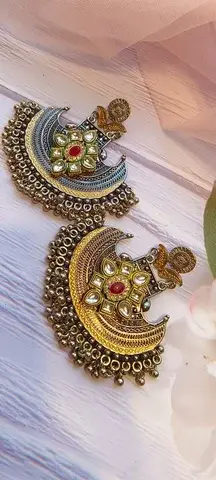
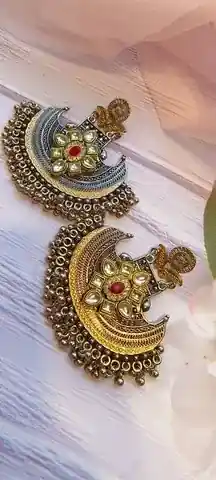
Fix unused JS, unused CSS, forced reflows, and image delivery based on Lighthouse v6 audit
- Remove duplicate gtag.js load: GTM already injects GA4 (gtag/js?cx=c&gtm=…) internally, so the explicit gtag.js script was a 164 KiB duplicate (70 KiB wasted bytes). Removed it; GTM is now the sole analytics loader.
- Move iphone-sort-fix.css from global bundle to ProductSort.jsx: since ProductSort is only used in the lazy-loaded Products page, this removes ~11 KiB of sort-modal CSS from the main bundle, reducing unused CSS on the home page.
- Remove forced reflows: deleted `void productsGrid.offsetHeight` (Products.jsx) and `void document.body.offsetHeight` (ProductSort.jsx) which caused synchronous layout thrash; also collapsed the unnecessary double-rAF wrapper in ProductSort.
- Recompress med-59-1.webp: 19.0 KiB → 10.7 KiB (−8.3 KiB), satisfying Lighthouse's 9 KiB savings target for that image.

diff --git a/src/components/ProductSort.jsx b/src/components/ProductSort.jsx
@@ -12,6 +12,7 @@ import { useState, useEffect, useRef } from 'react'
 import { useSearchParams } from 'react-router-dom'
 import { SORT_TYPES, SORT_LABELS, DEFAULT_SORT, getSortOptions } from '../utils/sorting'
 import './ProductSort.css'
+import '../styles/iphone-sort-fix.css'
 
 const ProductSort = ({ onSortChange, className = '' }) => {
   const [searchParams, setSearchParams] = useSearchParams()
@@ -122,15 +123,10 @@ const ProductSort = ({ onSortChange, className = '' }) => {
           productsContent.style.position = 'relative'
         }
         
-        // Force scrolling to work by ensuring body is scrollable
-        requestAnimationFrame(() => {
-          // Verify scrolling is restored
-          document.body.style.overflow = 'auto'
-          document.body.style.overflowX = 'hidden'
-          document.body.style.overflowY = 'auto'
-          // Force reflow
-          void document.body.offsetHeight
-        })
+        // Restore scrolling
+        document.body.style.overflow = 'auto'
+        document.body.style.overflowX = 'hidden'
+        document.body.style.overflowY = 'auto'
       })
     } else {
       // For non-iPhone devices

diff --git a/index.html b/index.html
@@ -149,17 +149,10 @@
   <!-- Deferred analytics: load after page is interactive to avoid blocking LCP/FID -->
   <script>
     function loadAnalytics() {
-      // Google tag (gtag.js)
-      var gtagScript = document.createElement('script');
-      gtagScript.async = true;
-      gtagScript.src = 'https://www.googletagmanager.com/gtag/js?id=G-1KL5DY2692';
-      document.head.appendChild(gtagScript);
-
+      // GTM is the single loader for all analytics — it also loads GA4 internally.
+      // Loading a separate gtag.js would be a duplicate (GTM injects gtag/js?cx=c&gtm=… itself).
       window.dataLayer = window.dataLayer || [];
-      function gtag() { dataLayer.push(arguments); }
-      window.gtag = gtag;
-      gtag('js', new Date());
-      gtag('config', 'G-1KL5DY2692');
+      window.gtag = function() { dataLayer.push(arguments); };
 
       // Google Tag Manager
       (function (w, d, s, l, i) {

diff --git a/src/index.css b/src/index.css
@@ -45,9 +45,6 @@
 /* iOS Safari Comprehensive Fix - Production-ready fixes for all iPhone-specific issues */
 @import './styles/ios-safari-comprehensive-fix.css';
 
-/* iPhone Sort Modal & Product Rendering Fix - Fixes sort modal causing UI crashes on iPhone */
-@import './styles/iphone-sort-fix.css';
-
 /* iOS Safari Critical Fixes - Must be last to override other styles */
 @import './styles/ios-safari-fixes.css';
 

diff --git a/src/pages/Products.jsx b/src/pages/Products.jsx
@@ -143,8 +143,6 @@ const Products = () => {
 
   useEffect(() => {
     requestAnimationFrame(() => {
-      const productsGrid = document.querySelector('.products-grid')
-      if (productsGrid) void productsGrid.offsetHeight
       document.querySelectorAll('.feat-card').forEach(card => {
         card.style.visibility = 'visible'
         card.style.opacity = '1'